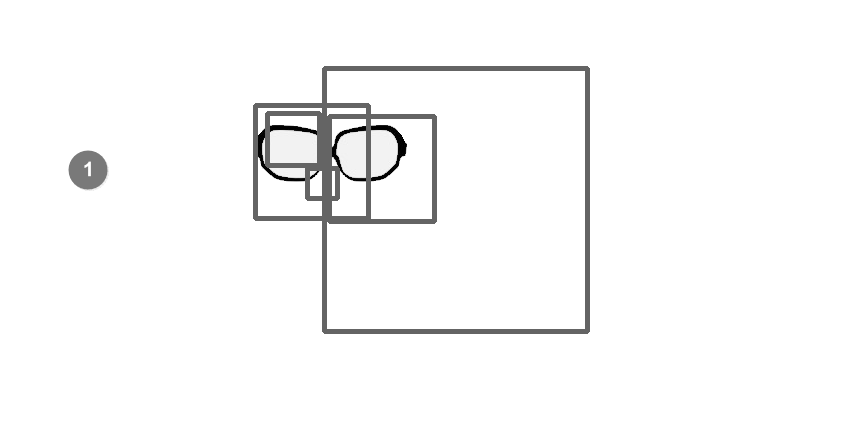
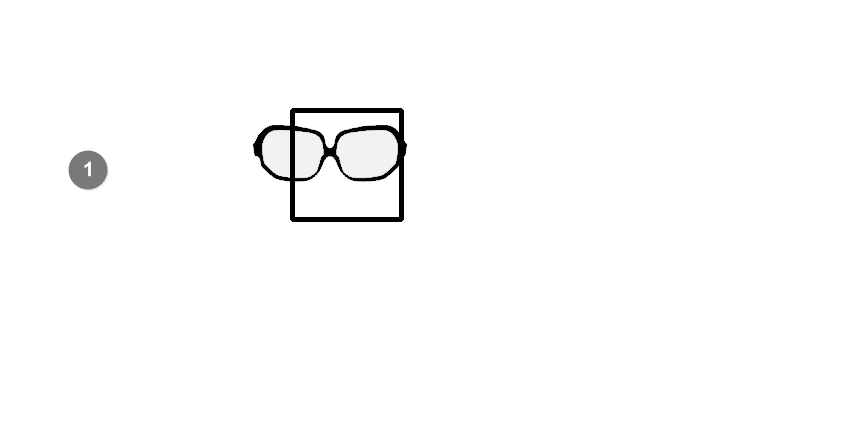
update

Changed region(s): [[0.2711, 0.1522, 0.6929, 0.7916]]

diff --git a/900-Others/250-Image/020-OpenCv/CustomCascadeExample/src/main/java/com/techoffice/example/Appl.java b/900-Others/250-Image/020-OpenCv/CustomCascadeExample/src/main/java/com/techoffice/example/Appl.java
@@ -4,6 +4,7 @@ import java.io.File;
 
 import org.opencv.core.Core;
 import org.opencv.core.Mat;
+import org.opencv.core.MatOfInt;
 import org.opencv.core.MatOfRect;
 import org.opencv.core.Point;
 import org.opencv.core.Rect;
@@ -11,6 +12,7 @@ import org.opencv.core.Scalar;
 import org.opencv.imgcodecs.Imgcodecs;
 import org.opencv.imgproc.Imgproc;
 import org.opencv.objdetect.CascadeClassifier;
+import org.opencv.objdetect.Objdetect;
 
 public class Appl {
 	
@@ -37,7 +39,10 @@ public class Appl {
 		
 		// Detect face
 		MatOfRect detector = new MatOfRect();
-		faceCascade.detectMultiScale(mat, detector);								
+		faceCascade.detectMultiScale(mat, detector);	
+		
+		Objdetect.groupRectangles(detector, new MatOfInt(), 1, 0.8);
+
 		for (Rect rect : detector.toArray()) {
 			Imgproc.rectangle(mat, new Point(rect.x, rect.y), new Point(rect.x + rect.width, rect.y + rect.height),
 					new Scalar(0, 255, 0), 3);
